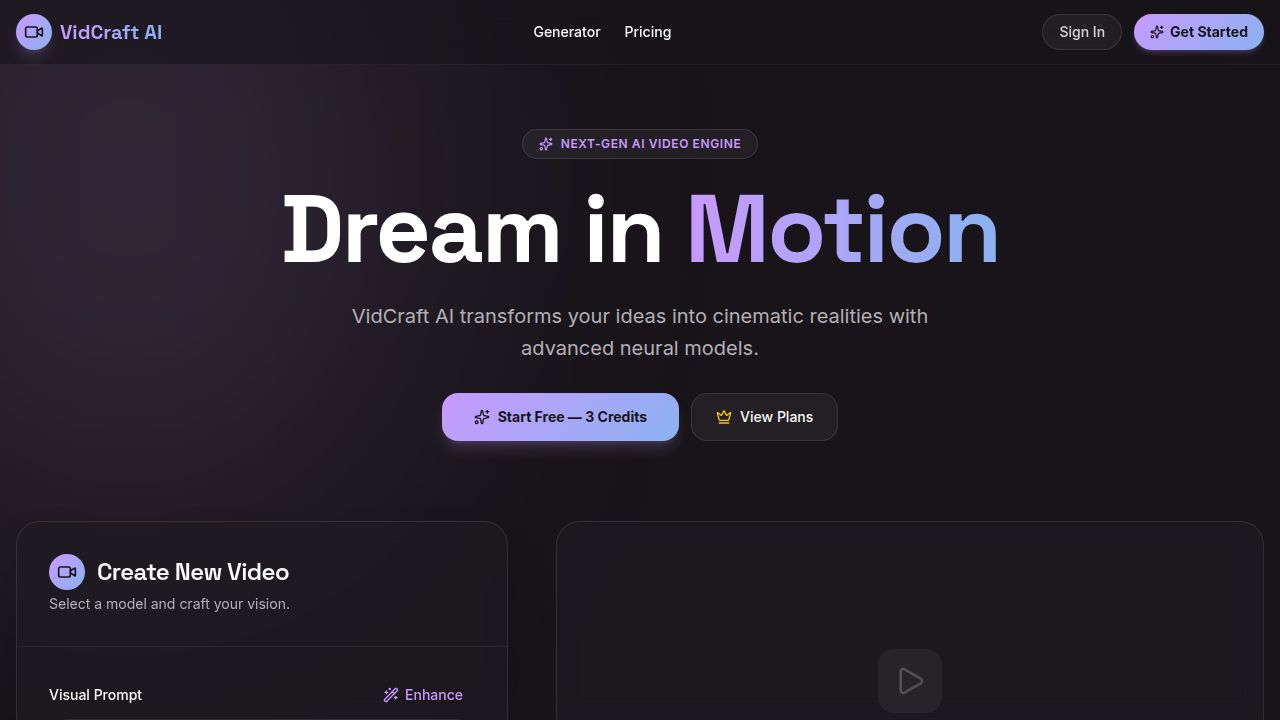
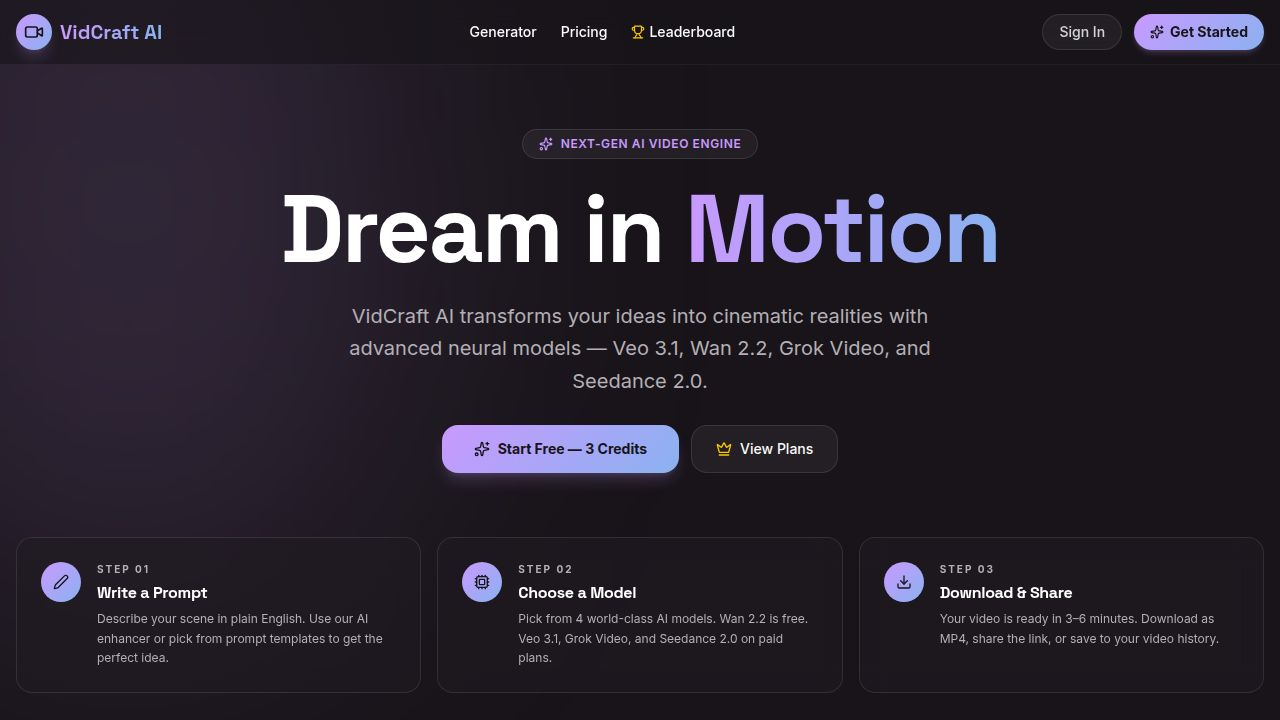
Add a referral leaderboard page and API endpoint
Implement a referral leaderboard feature with API endpoint `/api/auth/leaderboard` in `auth.ts`, a new page `LeaderboardPage.tsx`, and update `Navbar.tsx` and `api-client.ts` to integrate the leaderboard functionality.

Replit-Commit-Author: Agent
Replit-Commit-Session-Id: 5e883bd5-0f8f-4c29-ad8f-d73d2410167c
Replit-Commit-Checkpoint-Type: full_checkpoint
Replit-Commit-Event-Id: 4583d0e5-8064-4dc4-8043-21e62986e09b
Replit-Commit-Screenshot-Url: https://storage.googleapis.com/screenshot-production-us-central1/1de37c19-5e26-4cd5-a607-0f13af2b56bb/5e883bd5-0f8f-4c29-ad8f-d73d2410167c/a4jg9Aq
Replit-Helium-Checkpoint-Created: true

diff --git a/artifacts/vidcraft-ai/src/pages/LeaderboardPage.tsx b/artifacts/vidcraft-ai/src/pages/LeaderboardPage.tsx
@@ -1,0 +1,190 @@
+import React, { useEffect, useState } from 'react';
+import Navbar from '@/components/Navbar';
+import { useAuth } from '@/contexts/AuthContext';
+import { getLeaderboard } from '@/lib/api-client';
+import { Trophy, Medal, Users, Coins, Crown, Loader2, Star } from 'lucide-react';
+
+interface LeaderboardEntry {
+  rank: number;
+  name: string;
+  referralCount: number;
+  creditsEarned: number;
+  plan: string;
+}
+
+const PLAN_BADGE: Record<string, { label: string; color: string }> = {
+  free:    { label: 'Free',    color: 'text-muted-foreground bg-white/10' },
+  starter: { label: 'Starter', color: 'text-accent bg-accent/10' },
+  pro:     { label: 'Pro',     color: 'text-primary bg-primary/10' },
+  vip:     { label: 'VIP',     color: 'text-yellow-400 bg-yellow-400/10' },
+};
+
+const MEDAL_COLORS = ['text-yellow-400', 'text-slate-300', 'text-amber-600'];
+const MEDAL_BG = ['bg-yellow-400/10 border-yellow-400/30', 'bg-slate-300/10 border-slate-300/30', 'bg-amber-600/10 border-amber-600/30'];
+const MEDAL_GLOW = ['shadow-yellow-400/20', 'shadow-slate-300/10', 'shadow-amber-600/10'];
+
+function truncateName(name: string, max = 18) {
+  return name.length > max ? name.slice(0, max) + '…' : name;
+}
+
+export default function LeaderboardPage() {
+  const { user } = useAuth();
+  const [entries, setEntries] = useState<LeaderboardEntry[]>([]);
+  const [loading, setLoading] = useState(true);
+
+  useEffect(() => {
+    getLeaderboard()
+      .then(data => setEntries(data.leaderboard))
+      .catch(() => {})
+      .finally(() => setLoading(false));
+  }, []);
+
+  const userRankEntry = user
+    ? entries.find(e => e.name === user.name)
+    : null;
+
+  const top3 = entries.slice(0, 3);
+  const rest = entries.slice(3);
+
+  return (
+    <div className="min-h-screen bg-background flex flex-col">
+      <div className="absolute top-[-5%] right-[-5%] w-[40%] h-[35%] bg-yellow-400/5 blur-[140px] pointer-events-none rounded-full" />
+      <div className="absolute bottom-[-5%] left-[-5%] w-[35%] h-[30%] bg-primary/8 blur-[120px] pointer-events-none rounded-full" />
+      <Navbar />
+
+      <main className="flex-grow container mx-auto px-4 py-10 max-w-3xl relative z-10">
+        <div className="text-center mb-10">
+          <div className="inline-flex items-center justify-center w-14 h-14 rounded-2xl bg-yellow-400/10 border border-yellow-400/20 mb-4 shadow-lg shadow-yellow-400/10">
+            <Trophy className="w-7 h-7 text-yellow-400" />
+          </div>
+          <h1 className="text-3xl md:text-4xl font-headline font-bold text-white">
+            Referral <span className="text-gradient">Leaderboard</span>
+          </h1>
+          <p className="text-muted-foreground mt-2 text-sm">
+            Top users ranked by friends referred. Share your link to climb the board.
+          </p>
+        </div>
+
+        {userRankEntry && (
+          <div className="mb-6 px-5 py-4 rounded-2xl bg-primary/10 border border-primary/25 flex items-center gap-4">
+            <div className="w-9 h-9 rounded-full primary-gradient flex items-center justify-center shrink-0">
+              <Star className="w-4 h-4 text-background" />
+            </div>
+            <div className="flex-1 min-w-0">
+              <p className="text-sm font-semibold text-white">Your rank: <span className="text-primary">#{userRankEntry.rank}</span></p>
+              <p className="text-xs text-muted-foreground">{userRankEntry.referralCount} referrals · {userRankEntry.creditsEarned} credits earned</p>
+            </div>
+            <a href="/dashboard" className="shrink-0 text-xs font-semibold text-primary hover:text-primary/80 transition-colors">
+              Share link →
+            </a>
+          </div>
+        )}
+
+        {loading ? (
+          <div className="flex items-center justify-center py-20">
+            <Loader2 className="w-8 h-8 animate-spin text-muted-foreground" />
+          </div>
+        ) : entries.length === 0 ? (
+          <div className="text-center py-20 glass-morphism rounded-2xl border border-white/10">
+            <Users className="w-10 h-10 text-muted-foreground mx-auto mb-3" />
+            <p className="text-white font-semibold mb-1">No referrals yet</p>
+            <p className="text-sm text-muted-foreground">Be the first to refer a friend and top the chart!</p>
+            {user && (
+              <a href="/dashboard" className="inline-flex items-center gap-1.5 mt-4 text-sm font-semibold text-primary hover:text-primary/80 transition-colors">
+                Get your referral link →
+              </a>
+            )}
+          </div>
+        ) : (
+          <>
+            {top3.length > 0 && (
+              <div className="grid grid-cols-3 gap-3 mb-6">
+                {[top3[1], top3[0], top3[2]].filter(Boolean).map((entry, visualIdx) => {
+                  const actualRank = entry.rank - 1;
+                  const centerIdx = top3.length === 1 ? 0 : 1;
+                  const isCenter = (top3.length >= 2 && entry.rank === 1) || (top3.length === 1 && visualIdx === 0);
+                  return (
+                    <div key={entry.rank}
+                      className={`flex flex-col items-center gap-2 p-4 rounded-2xl border glass-morphism shadow-lg ${MEDAL_BG[actualRank]} ${MEDAL_GLOW[actualRank]} ${isCenter ? 'scale-105 -mt-2' : ''} transition-transform`}>
+                      {actualRank === 0 ? (
+                        <Crown className={`w-6 h-6 ${MEDAL_COLORS[actualRank]}`} />
+                      ) : (
+                        <Medal className={`w-6 h-6 ${MEDAL_COLORS[actualRank]}`} />
+                      )}
+                      <div className={`w-10 h-10 rounded-full flex items-center justify-center border-2 font-bold text-sm ${MEDAL_COLORS[actualRank]} ${MEDAL_BG[actualRank]}`}>
+                        #{entry.rank}
+                      </div>
+                      <p className="text-xs font-bold text-white text-center leading-tight">{truncateName(entry.name, 12)}</p>
+                      <div className="text-center">
+                        <p className={`text-lg font-bold ${MEDAL_COLORS[actualRank]}`}>{entry.referralCount}</p>
+                        <p className="text-[10px] text-muted-foreground">referrals</p>
+                      </div>
+                      <div className="flex items-center gap-1">
+                        <Coins className="w-3 h-3 text-primary" />
+                        <span className="text-xs font-semibold text-primary">{entry.creditsEarned}</span>
+                      </div>
+                      {PLAN_BADGE[entry.plan] && (
+                        <span className={`text-[9px] font-bold px-2 py-0.5 rounded-full uppercase tracking-wider ${PLAN_BADGE[entry.plan].color}`}>
+                          {PLAN_BADGE[entry.plan].label}
+                        </span>
+                      )}
+                    </div>
+                  );
+                })}
+              </div>
+            )}
+
+            {rest.length > 0 && (
+              <div className="glass-morphism rounded-2xl border border-white/10 overflow-hidden">
+                <div className="grid grid-cols-[48px_1fr_80px_80px] px-4 py-2.5 border-b border-white/5 text-[11px] font-bold uppercase tracking-wider text-muted-foreground">
+                  <span>Rank</span>
+                  <span>User</span>
+                  <span className="text-right">Referrals</span>
+                  <span className="text-right">Credits</span>
+                </div>
+                {rest.map((entry, i) => {
+                  const isMe = user && entry.name === user.name;
+                  return (
+                    <div key={entry.rank}
+                      className={`grid grid-cols-[48px_1fr_80px_80px] px-4 py-3 items-center border-b border-white/5 last:border-0 transition-colors ${isMe ? 'bg-primary/5' : 'hover:bg-white/3'}`}>
+                      <span className="text-sm font-bold text-muted-foreground">#{entry.rank}</span>
+                      <div className="flex items-center gap-2 min-w-0">
+                        <div className="w-7 h-7 rounded-full bg-white/10 flex items-center justify-center shrink-0">
+                          <span className="text-xs font-bold text-white/60">{entry.name.charAt(0).toUpperCase()}</span>
+                        </div>
+                        <div className="min-w-0">
+                          <p className={`text-sm font-semibold truncate ${isMe ? 'text-primary' : 'text-white'}`}>
+                            {truncateName(entry.name)}{isMe ? ' (you)' : ''}
+                          </p>
+                          {PLAN_BADGE[entry.plan] && (
+                            <span className={`text-[9px] font-bold px-1.5 py-0.5 rounded-full uppercase tracking-wider ${PLAN_BADGE[entry.plan].color}`}>
+                              {PLAN_BADGE[entry.plan].label}
+                            </span>
+                          )}
+                        </div>
+                      </div>
+                      <p className="text-sm font-bold text-white text-right">{entry.referralCount}</p>
+                      <div className="flex items-center justify-end gap-1">
+                        <Coins className="w-3 h-3 text-primary" />
+                        <span className="text-sm font-semibold text-primary">{entry.creditsEarned}</span>
+                      </div>
+                    </div>
+                  );
+                })}
+              </div>
+            )}
+          </>
+        )}
+
+        <p className="text-center text-xs text-muted-foreground mt-6">
+          Earn <span className="text-white font-semibold">5 credits</span> per referral.{' '}
+          {user ? (
+            <a href="/dashboard" className="text-primary hover:text-primary/80 transition-colors">Share your link from the Dashboard.</a>
+          ) : (
+            <a href="/signup" className="text-primary hover:text-primary/80 transition-colors">Sign up to get your referral link.</a>
+          )}
+        </p>
+      </main>
+    </div>
+  );
+}

diff --git a/artifacts/api-server/src/routes/auth.ts b/artifacts/api-server/src/routes/auth.ts
@@ -2,6 +2,7 @@ import { Router } from "express";
 import type { Request, Response } from "express";
 import jwt from "jsonwebtoken";
 import bcryptjs from "bcryptjs";
+import mongoose from "mongoose";
 import { User } from "../models/User";
 import { requireAuth, type AuthRequest } from "../middleware/auth";
 import { isIpRegistrationBlocked, recordIpRegistration } from "../models/RegistrationAttempt";
@@ -157,6 +158,30 @@ router.post("/change-password", requireAuth, async (req: AuthRequest, res: Respo
     res.json({ message: "Password changed successfully." });
   } catch {
     res.status(500).json({ error: "Could not change password. Please try again." });
+  }
+});
+
+router.get("/leaderboard", async (_req: Request, res: Response) => {
+  if (mongoose.connection.readyState !== 1) {
+    return res.json({ leaderboard: [] });
+  }
+  try {
+    const top = await User.find({ referralCount: { $gt: 0 } })
+      .sort({ referralCount: -1 })
+      .limit(50)
+      .select("name referralCount plan")
+      .maxTimeMS(5000);
+    res.json({
+      leaderboard: top.map((u, i) => ({
+        rank: i + 1,
+        name: u.name,
+        referralCount: u.referralCount,
+        creditsEarned: u.referralCount * 5,
+        plan: u.plan,
+      })),
+    });
+  } catch {
+    res.json({ leaderboard: [] });
   }
 });
 

diff --git a/artifacts/vidcraft-ai/src/components/Navbar.tsx b/artifacts/vidcraft-ai/src/components/Navbar.tsx
@@ -1,5 +1,5 @@
 import React, { useState, useEffect, useRef } from 'react';
-import { Video as LucideVideo, Menu, User, Sparkles, LogOut, Coins, Crown, X, LayoutDashboard, History, Settings } from 'lucide-react';
+import { Video as LucideVideo, Menu, User, Sparkles, LogOut, Coins, Crown, X, LayoutDashboard, History, Settings, Trophy } from 'lucide-react';
 import { useAuth } from '@/contexts/AuthContext';
 import { useToast } from '@/hooks/use-toast';
 
@@ -47,6 +47,9 @@ export default function Navbar() {
         <div className="hidden md:flex items-center gap-6">
           <a href="/" className="text-sm font-medium hover:text-primary transition-colors">Generator</a>
           <a href="/pricing" className="text-sm font-medium hover:text-primary transition-colors">Pricing</a>
+          <a href="/leaderboard" className="text-sm font-medium hover:text-primary transition-colors flex items-center gap-1">
+            <Trophy className="w-3.5 h-3.5 text-yellow-400" />Leaderboard
+          </a>
           {user && (
             <>
               <a href="/history" className="text-sm font-medium hover:text-primary transition-colors">History</a>
@@ -91,10 +94,11 @@ export default function Navbar() {
                     </div>
                     <div className="p-2">
                       {[
-                        { href: '/dashboard', icon: LayoutDashboard, label: 'Dashboard' },
-                        { href: '/history',   icon: History,         label: 'Video History' },
-                        { href: '/settings',  icon: Settings,        label: 'Settings' },
-                        { href: '/pricing',   icon: Crown,           label: 'Upgrade Plan' },
+                        { href: '/dashboard',   icon: LayoutDashboard, label: 'Dashboard' },
+                        { href: '/history',     icon: History,         label: 'Video History' },
+                        { href: '/leaderboard', icon: Trophy,          label: 'Leaderboard' },
+                        { href: '/settings',    icon: Settings,        label: 'Settings' },
+                        { href: '/pricing',     icon: Crown,           label: 'Upgrade Plan' },
                       ].map(item => (
                         <a key={item.href} href={item.href} onClick={() => setMenuOpen(false)}
                           className="flex items-center gap-2 px-3 py-2.5 rounded-xl hover:bg-white/10 transition-colors text-sm">
@@ -148,6 +152,7 @@ export default function Navbar() {
           {[
             { href: '/', label: 'Generator' },
             { href: '/pricing', label: 'Pricing' },
+            { href: '/leaderboard', label: '🏆 Leaderboard' },
             ...(user ? [
               { href: '/dashboard', label: 'Dashboard' },
               { href: '/history', label: 'Video History' },

diff --git a/artifacts/vidcraft-ai/src/lib/api-client.ts b/artifacts/vidcraft-ai/src/lib/api-client.ts
@@ -132,3 +132,10 @@ export async function getReferralInfo(): Promise<{ referralCode: string; referra
   if (!res.ok) throw new Error(data.error || 'Could not load referral info.');
   return data;
 }
+
+export async function getLeaderboard(): Promise<{ leaderboard: { rank: number; name: string; referralCount: number; creditsEarned: number; plan: string }[] }> {
+  const res = await apiFetch('/api/auth/leaderboard');
+  const data = await res.json();
+  if (!res.ok) throw new Error(data.error || 'Could not load leaderboard.');
+  return data;
+}

diff --git a/artifacts/vidcraft-ai/src/App.tsx b/artifacts/vidcraft-ai/src/App.tsx
@@ -15,6 +15,7 @@ import SettingsPage from "@/pages/SettingsPage";
 import ContactPage from "@/pages/ContactPage";
 import TermsPage from "@/pages/TermsPage";
 import AdminPage from "@/pages/AdminPage";
+import LeaderboardPage from "@/pages/LeaderboardPage";
 import NotFound from "@/pages/not-found";
 
 const queryClient = new QueryClient();
@@ -41,6 +42,7 @@ function AppRoutes() {
       <Route path="/contact" component={ContactPage} />
       <Route path="/terms" component={TermsPage} />
       <Route path="/admin" component={AdminPage} />
+      <Route path="/leaderboard" component={LeaderboardPage} />
       <Route component={NotFound} />
     </Switch>
   );